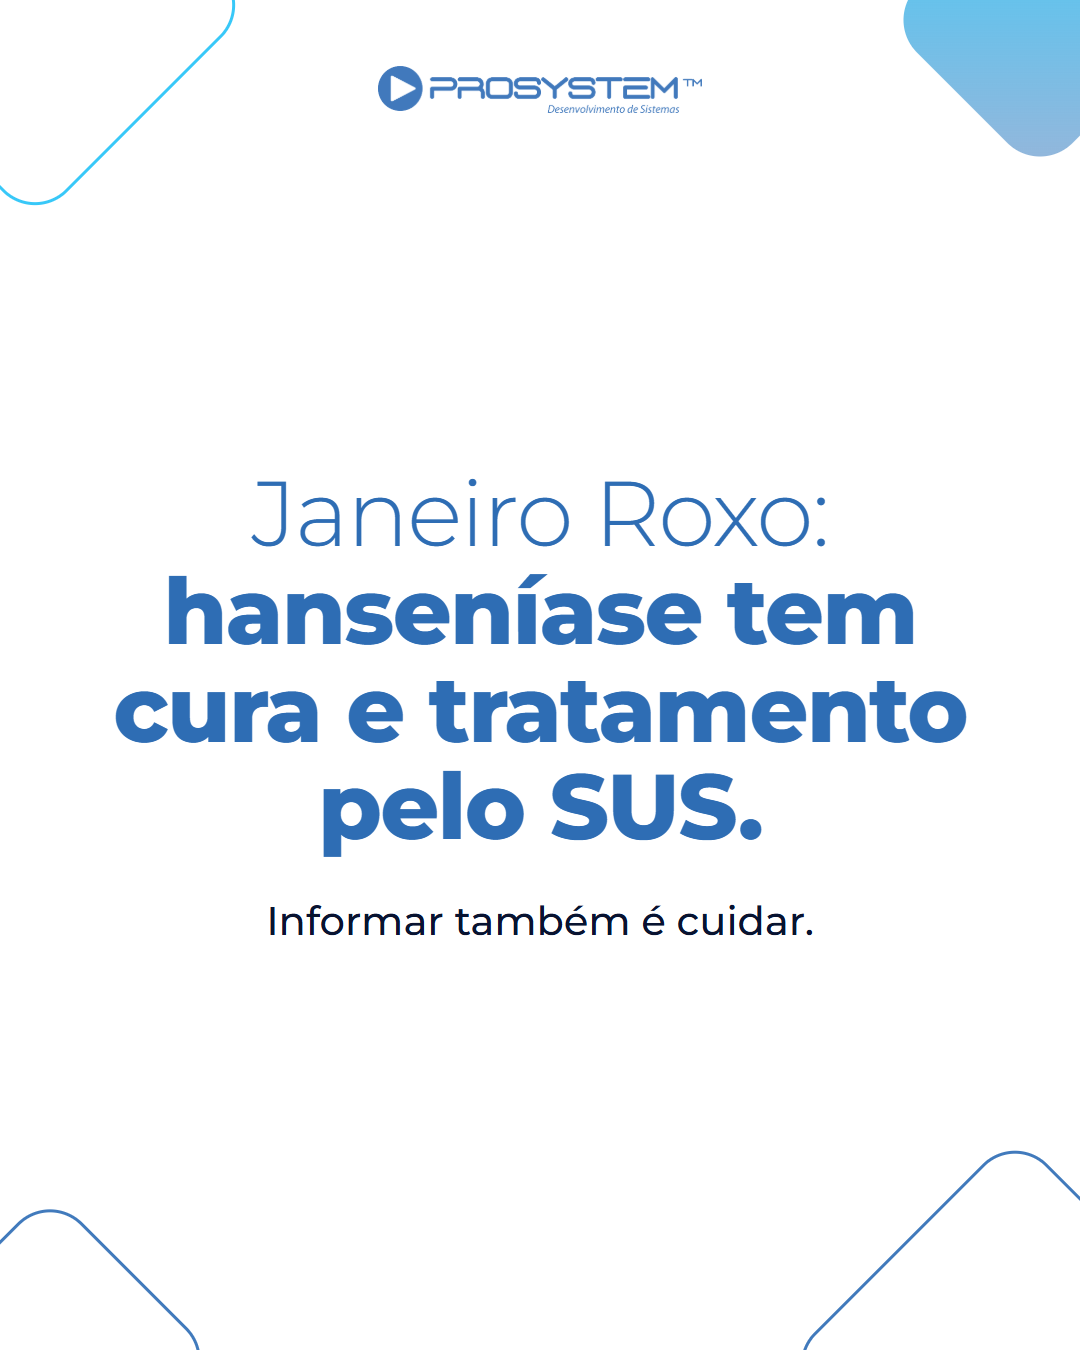
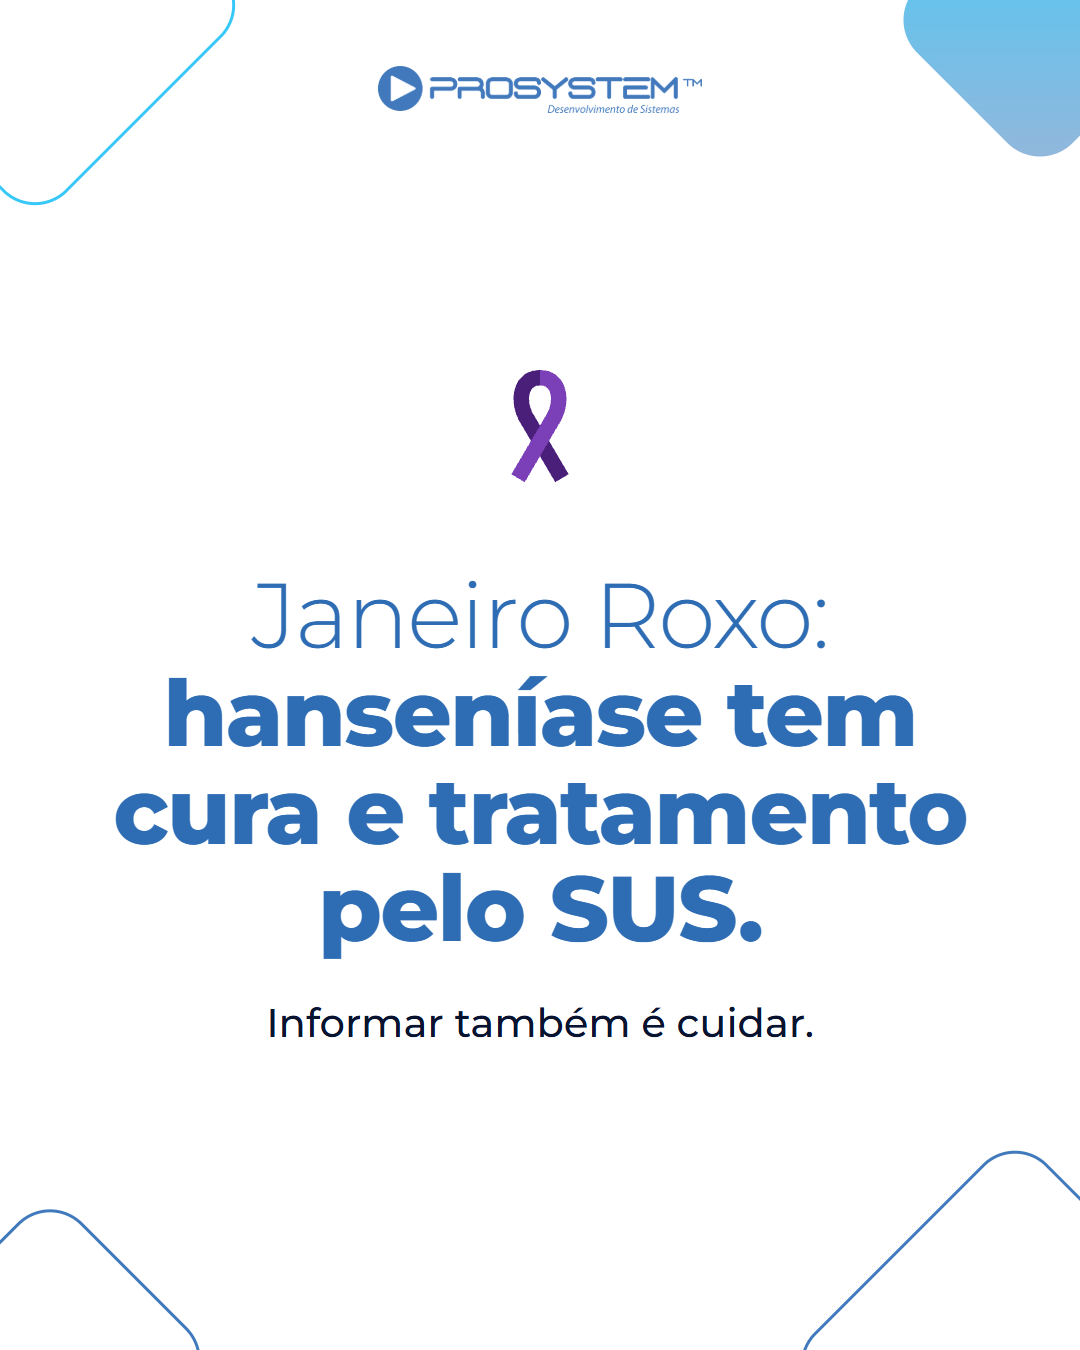
Janeiro Roxo (31/01): laço roxo na frase de impacto

Changed region(s): [[0.0917, 0.2489, 0.9167, 0.7156], [0.2444, 0.7467, 0.7639, 0.7778], [0.2444, 0.3422, 0.3361, 0.4044]]

diff --git a/outputs/criativos/nov-dez/gerar.js b/outputs/criativos/nov-dez/gerar.js
@@ -106,7 +106,8 @@ function v3(c) {
 const LACO_VERMELHO = `<svg viewBox="0 0 100 140" style="width:${px(92)};height:${px(128)};fill:none;stroke-width:17;margin:0 auto ${px(36)};flex:none"><path d="M50 16C29 16 25 40 34 58L74 126" stroke="#a5161d"/><path d="M50 16C71 16 75 40 66 58L26 126" stroke="#d62828"/></svg>`;
 // Laço branco do Janeiro Branco: contorno fino por baixo do traço branco, para aparecer no fundo branco.
 const LACO_BRANCO = `<svg viewBox="0 0 100 140" style="width:${px(92)};height:${px(128)};fill:none;stroke-linecap:butt;margin:0 auto ${px(36)};flex:none;filter:drop-shadow(0 ${px(6)} ${px(10)} rgba(15,76,150,.18))"><path d="M50 16C29 16 25 40 34 58L74 126" stroke="#6f8fb8" stroke-width="25"/><path d="M50 16C29 16 25 40 34 58L74 126" stroke="#e3eaf3" stroke-width="19"/><path d="M50 16C71 16 75 40 66 58L26 126" stroke="#6f8fb8" stroke-width="25"/><path d="M50 16C71 16 75 40 66 58L26 126" stroke="#fff" stroke-width="19"/></svg>`;
-const LACOS_FRASE = { vermelho: LACO_VERMELHO, branco: LACO_BRANCO };
+const LACO_ROXO = `<svg viewBox="0 0 100 140" style="width:${px(92)};height:${px(128)};fill:none;stroke-width:17;margin:0 auto ${px(36)};flex:none"><path d="M50 16C29 16 25 40 34 58L74 126" stroke="#4a1f7a"/><path d="M50 16C71 16 75 40 66 58L26 126" stroke="#7b3fb8"/></svg>`;
+const LACOS_FRASE = { vermelho: LACO_VERMELHO, branco: LACO_BRANCO, roxo: LACO_ROXO };
 const frase = (c) => [pg(c.tema, 'bra', `${lo(1)}${logo(1)}<div class="frs">${LACOS_FRASE[c.laco] || ''}<h4${c.fs ? ` style="font-size:${px(c.fs)}"` : ''}>${c.titulo}</h4><p>${c.apoio}</p></div>`)];
 // Título, tela, faixa e pílula. Três blocos de texto, como pede o caderno.
 function comTela(c) {

diff --git a/outputs/criativos/nov-dez/pecas-dados.js b/outputs/criativos/nov-dez/pecas-dados.js
@@ -432,12 +432,12 @@ ${CTA}`,
   alts: ['Panetone cortado, com uma fatia saindo, em frente a uma árvore de Natal iluminada, com o texto: Dia de Reis, a festa acabou, e o panetone que sobrou?'],
   conferir: ['Produto: o relatório de dias sem giro vale sem ajuste na padaria?'] },
 
-{ data: 'Dom 31/01', seg: 'Farmácia', id: 'frase-janeiro-roxo-v2', tipo: 'frase', tema: 'azul', formato: 'Frase de impacto', nova: true, semAno: true, fs: 92,
+{ data: 'Dom 31/01', seg: 'Farmácia', id: 'frase-janeiro-roxo-v2', tipo: 'frase', tema: 'azul', formato: 'Frase de impacto', nova: true, semAno: true, fs: 92, laco: 'roxo',
   titulo: 'Janeiro Roxo: <b>hanseníase tem cura e tratamento pelo SUS.</b>', apoio: 'Informar também é cuidar.',
   kw: '',
   cap: 'Hoje é o Dia Nacional de Combate e Prevenção da Hanseníase, e o Janeiro Roxo lembra que informação ajuda a acabar com o preconceito.\n\nA hanseníase tem cura, e o tratamento é gratuito pelo SUS. Na dúvida, oriente o cliente a procurar a unidade básica de saúde.\n\nCompartilhe esta informação.',
   tags: '#janeiroroxo #hanseniase #farmacia',
-  alts: ['Frase em azul sobre fundo branco: Janeiro Roxo, hanseníase tem cura e tratamento pelo SUS.'],
+  alts: ['Laço roxo e frase em azul sobre fundo branco: Janeiro Roxo, hanseníase tem cura e tratamento pelo SUS.'],
   conferir: ['Data de saúde: a peça encaminha para a unidade de saúde, sem orientar tratamento.', 'Cura e gratuidade vêm de secretarias de saúde, sem abrir a página do Ministério.', 'O post amplia o calendário de 22/01 para 31/01.'] },
 ];
 

diff --git a/docs/contexto/relatorios/2026-11-03-laco-janeiro-roxo.md b/docs/contexto/relatorios/2026-11-03-laco-janeiro-roxo.md
@@ -1,0 +1,19 @@
+# Laço roxo na frase do Janeiro Roxo (31/01)
+
+## Pedido
+Jessica, com print da peça `frase-janeiro-roxo-v2`: "coloque o simbolo oficial da campanha".
+
+## Feito
+- `outputs/criativos/nov-dez/gerar.js`: novo `LACO_ROXO` (roxo escuro `#4a1f7a` atrás, roxo `#7b3fb8` na frente), no mapa `LACOS_FRASE`.
+- `outputs/criativos/nov-dez/pecas-dados.js`: `laco: 'roxo'` na peça de 31/01 e texto alternativo começando com "Laço roxo e frase em azul...".
+- `outputs/criativos/nov-dez/legendas.md`: só a linha do texto alternativo foi trocada.
+- `outputs/criativos/nov-dez/pecas/frase-janeiro-roxo-v2.png` gerado de novo.
+
+## Verificado
+- `node gerar.js frase-janeiro-roxo-v2`: "sem estouro". PNG conferido: o laço fica acima do título, no mesmo lugar e tamanho dos laços do Dezembro Vermelho e do Janeiro Branco.
+
+## Decisões e porquês
+- Símbolo usado: o laço roxo, que identifica o Janeiro Roxo. Sem logomarca de órgão ou instituição (marca de terceiro).
+
+## Pendente
+- Aprovação da Jessica. Depois de aprovada, marcar `travada: true` na peça.

diff --git a/outputs/criativos/nov-dez/legendas.md b/outputs/criativos/nov-dez/legendas.md
@@ -1031,7 +1031,7 @@ Compartilhe esta informação.
 
 #janeiroroxo #hanseniase #farmacia
 
-**Texto alternativo:** Frase em azul sobre fundo branco: Janeiro Roxo, hanseníase tem cura e tratamento pelo SUS.
+**Texto alternativo:** Laço roxo e frase em azul sobre fundo branco: Janeiro Roxo, hanseníase tem cura e tratamento pelo SUS.
 
 **Conferir antes de publicar:**
 
